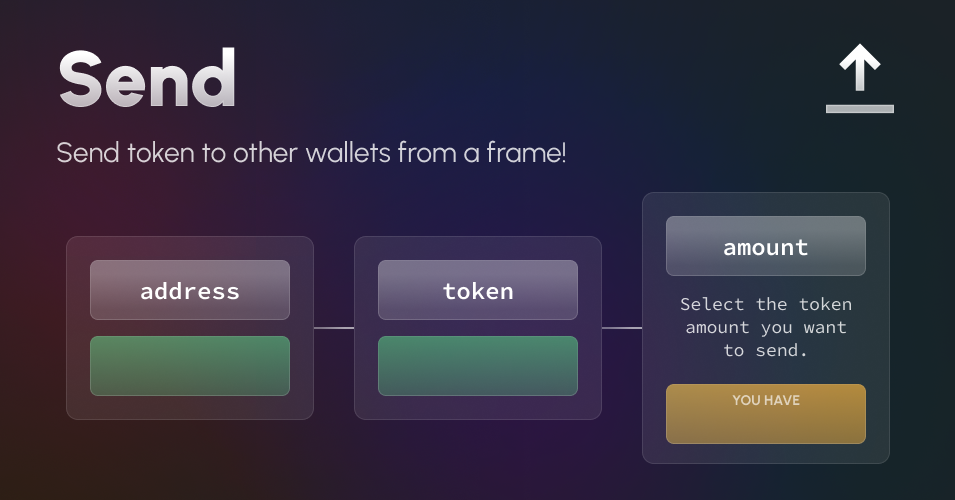
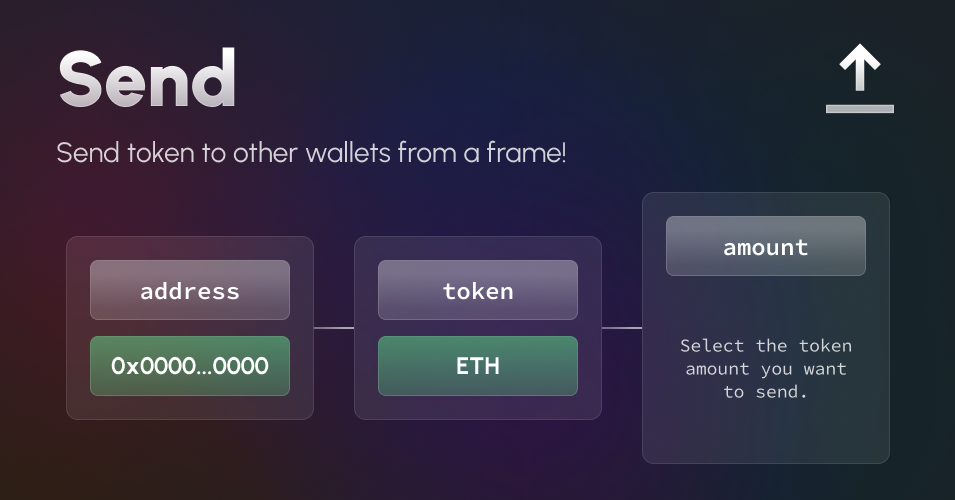
amount no balance

Changed region(s): [[0.6984, 0.6, 0.911, 0.9], [0.0911, 0.69, 0.3037, 0.75], [0.4555, 0.69, 0.5466, 0.75]]

diff --git a/app/transaction/route.tsx b/app/transaction/route.tsx
@@ -552,7 +552,7 @@ const handler = frames(async (ctx) => {
           image: (
             <div tw="relative flex flex-col justify-center">
               <img
-                src={`${appURL()}/images/frames/send/amount.png`}
+                src={`${appURL()}/images/frames/send/amount-balance.png`}
                 tw="w-full"
               />
               <div tw="w-full flex absolute text-white justify-between bottom-[120px] px-23 text-[24px] font-bold leading-8">
